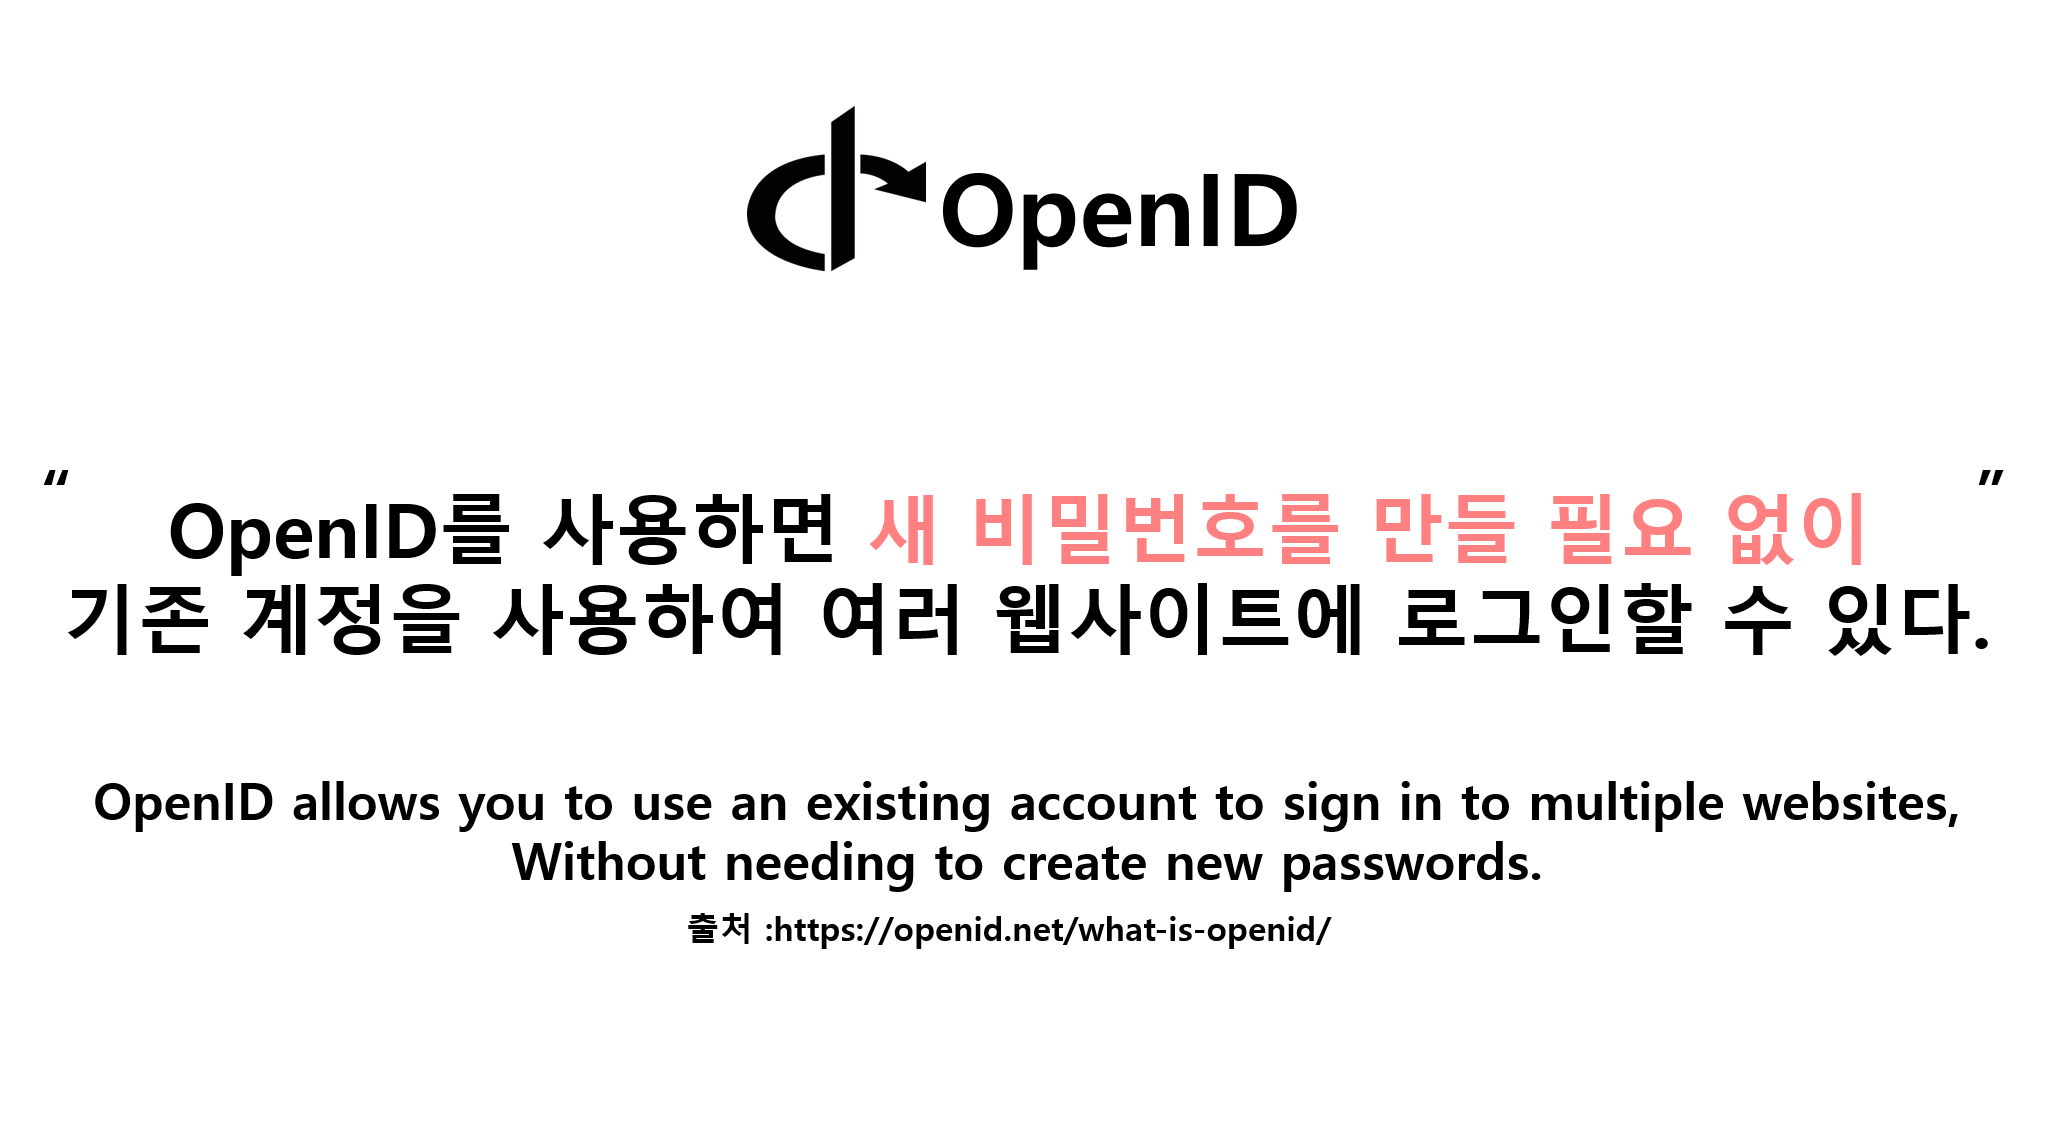
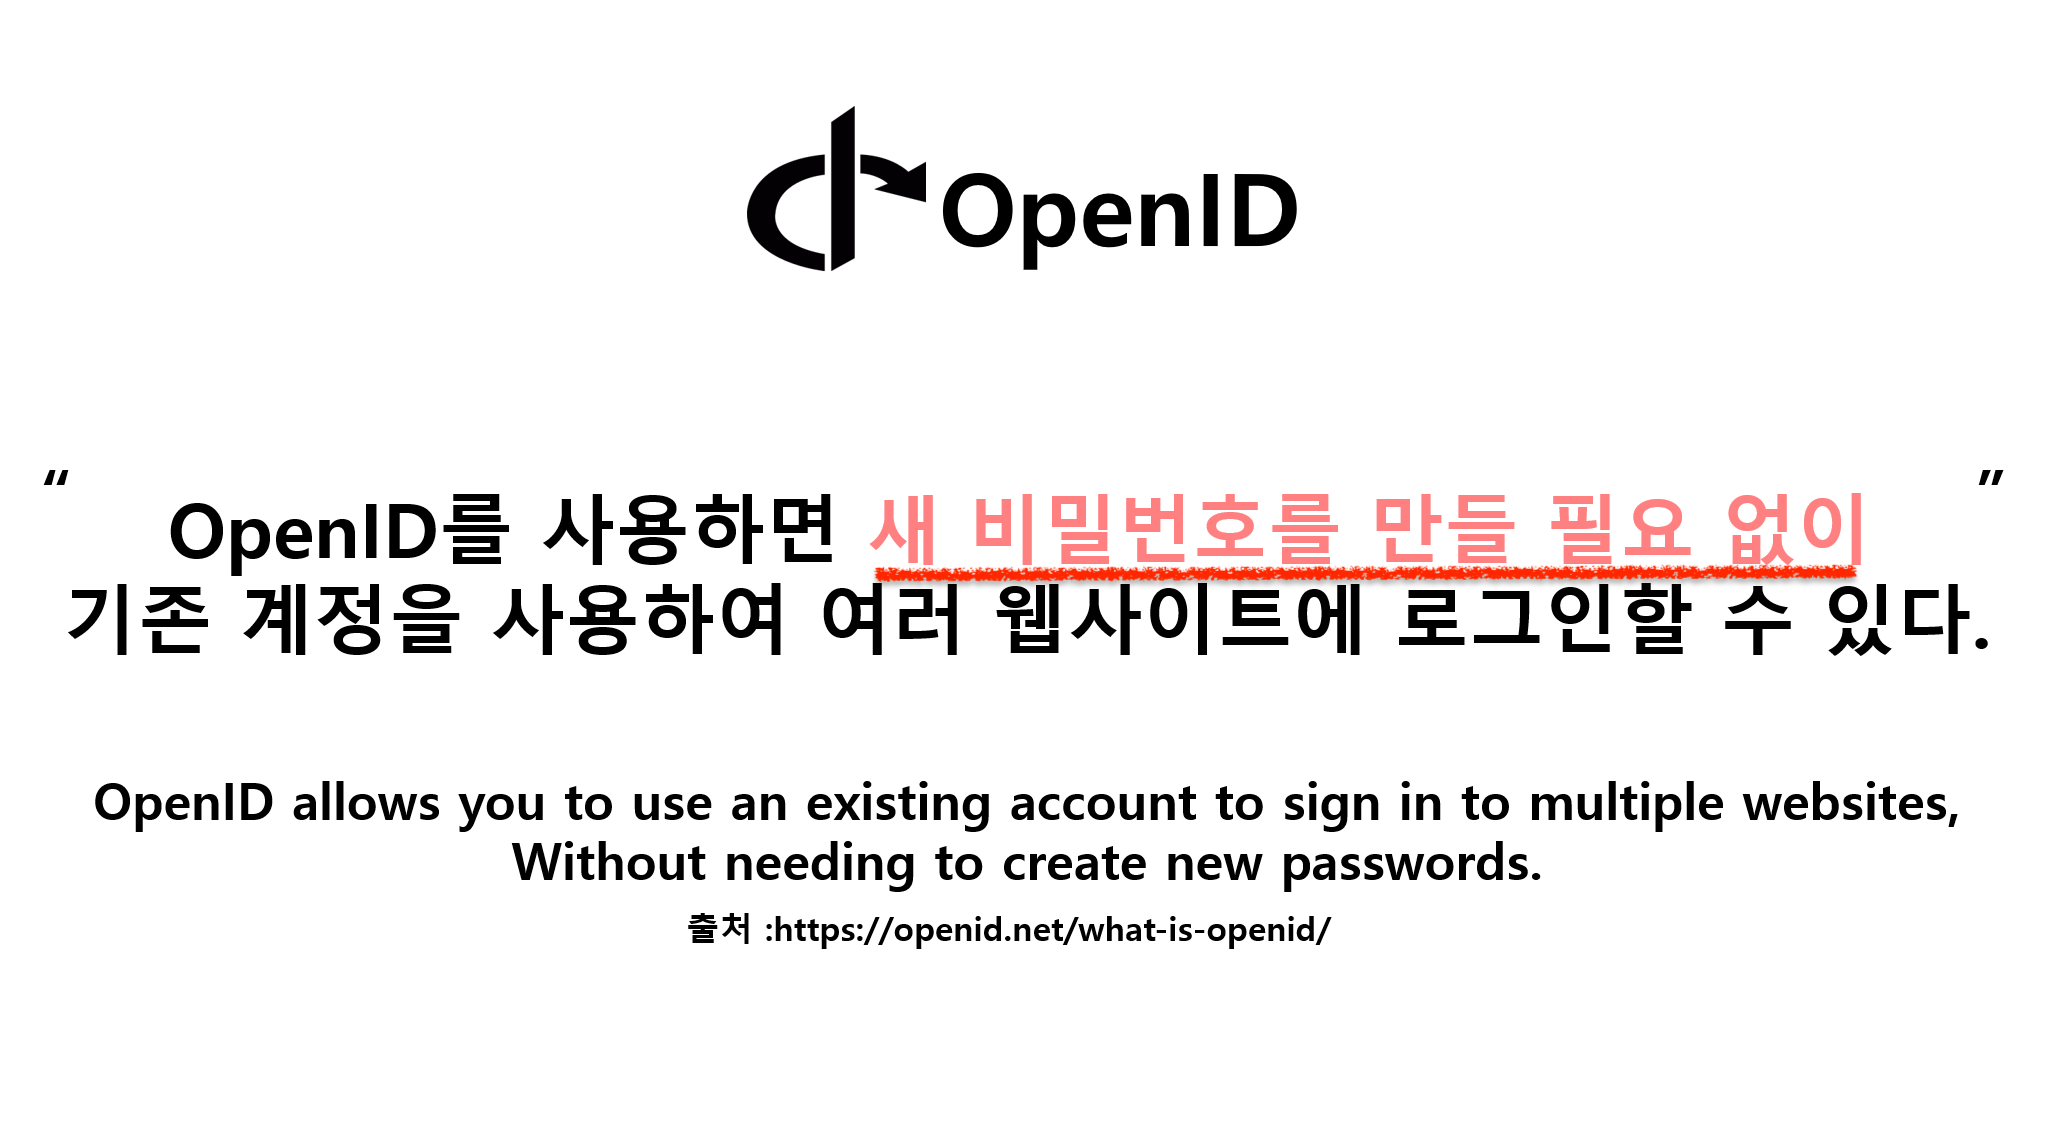
working 2023-02-08 openid post

Changed region(s): [[0.4309, 0.4978, 0.9233, 0.5289]]

diff --git a/_posts/development/server/2023-02-08-openid.md b/_posts/development/server/2023-02-08-openid.md
@@ -1,0 +1,49 @@
+---
+layout: post
+title: "[Security] OpenID"
+subtitle: "OpenID"
+category: development
+tags: server Security OpenID 개념
+image:
+    path: /assets/img/development/server/2023-02-08/openid.png
+---
+
+> “해당 포스팅은 **우아한Tech**의 [**[10분 테코톡] 토닉, 후디의 인증과 인가 - 부족사회부터 소셜로그인까지**](https://www.youtube.com/watch?v=BotXDfBPvDA)을 참고하여 포스팅하였습니다. 영상을 제작해주신 **우아한Tech**와 **토닉, 후디**님에게 감사드립니다.”
+
+<span style="font-size:30px;">\#**목차**</span>
+
+* this unordered seed list will be replaced by the toc
+{:toc}
+
+# OpenID
+
+## OpenID 개요
+
+### 클라이언트의 단점
+![openid_outline1](/assets/img/development/server/2023-02-08/openid_outline1.png){:.centered width="90%"}
+
+- 우리가 일반적으로 직접 **인증기능을 구축**하기 위해선 **사용자**로부터 **ID/PW등**과 같은 **개인정보를 직접 제공** 받아야 한다.
+- **그런데**, <span style="color:#ff8080">**`보안사고`**</span>가 터지면 큰일이다...
+
+### 사용자의 단점
+![openid_outline2](/assets/img/development/server/2023-02-08/openid_outline2.png){:.centered width="90%"}
+- 사용자 또한 <span style="color:#ff8080">**`불편함`**</span>을 가지고 있게 된다.
+- 지금 처럼 굉장히 **많은 서비스**를 이용하는 **시대**에서 **각 서비스마다 ID/PW**를 **기억**하고 있어야하는 <span style="color:#ff8080">**`불편함`**</span>이 생긴다. 
+
+### OpenID의 시작
+![openid_question](/assets/img/development/server/2023-02-08/openid_question.png){:.centered width="90%"}
+- 이런 아이디어에서 **OpenID**가 시작 되었다
+- **OpenID Foundation**에서 추진하는 <span style="color:#ff8080">**`개방형 표준 및 분산 인증 프로토콜`**</span>이다
+
+### OpenID의 장점
+![explan_openid](/assets/img/development/server/2023-02-08/explan_openid.png){:.centered width="90%"}
+> “**OpenID**를 사용하면 <span style="color:#ff8080">**`새 비밀번호를 만들 필요 없이`**</span>” 기존 계정을 사용하여 여러 웹사이트에 **로그인**할 수 있다.
+
+### OpenID의 2가지 버전
+![openid_2version](/assets/img/development/server/2023-02-08/openid_2version.png){:.centered width="90%"}
+- OpenID도 크게 **두 가지** 주체로 나눌 수 있다
+- **IdP** : 구글, 카카오와 같이 OpenID 서비스를 **제공**하는 **당사자**
+- **RP** : 사용자를 **인증**하기 위해 IdP에 <span style="color:#ff8080">**`의존`**</span>하는 주체
+
+Back to [[Security] OAuth](2023-01-26-oauth.md){:.heading.flip-title}
+{:.read-more}
